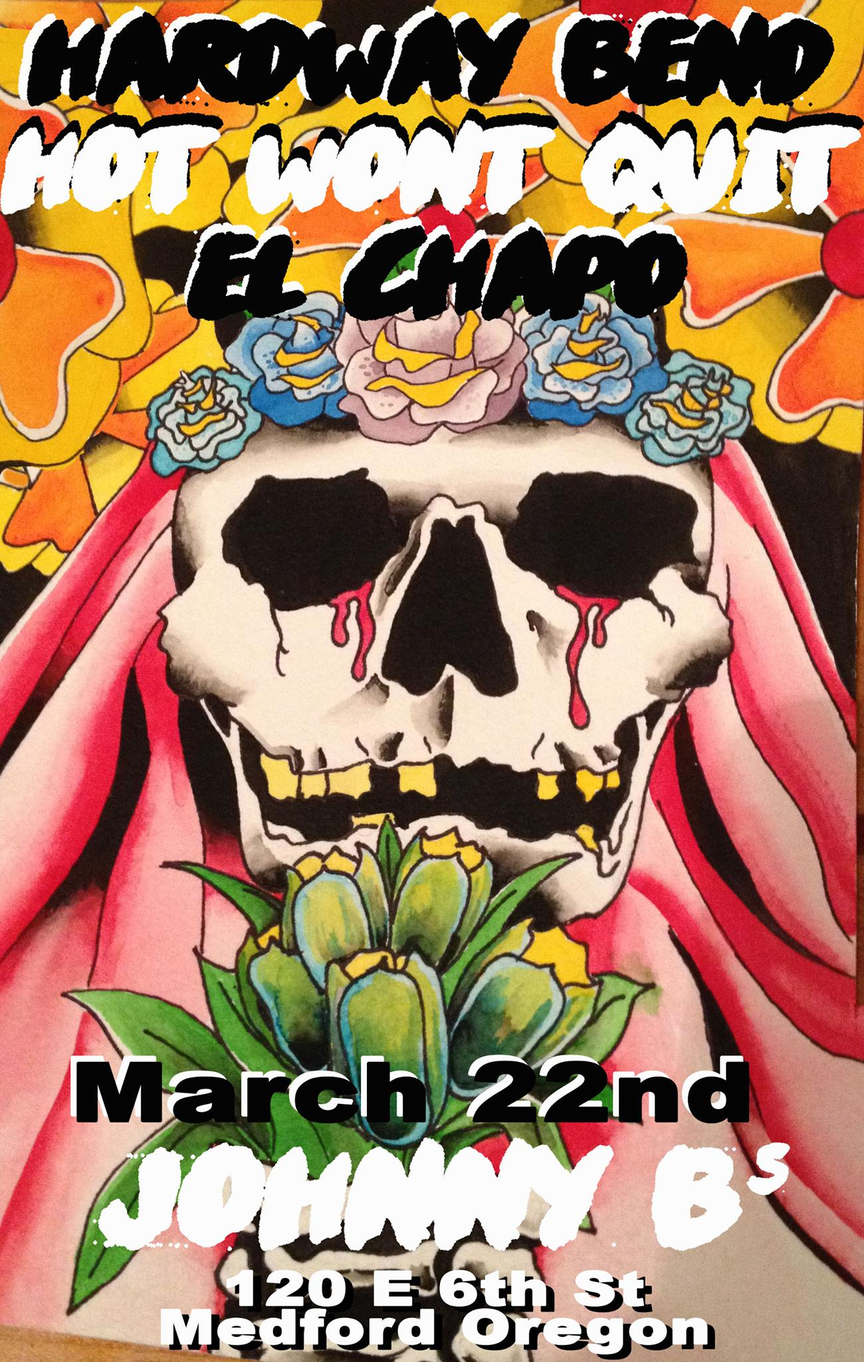
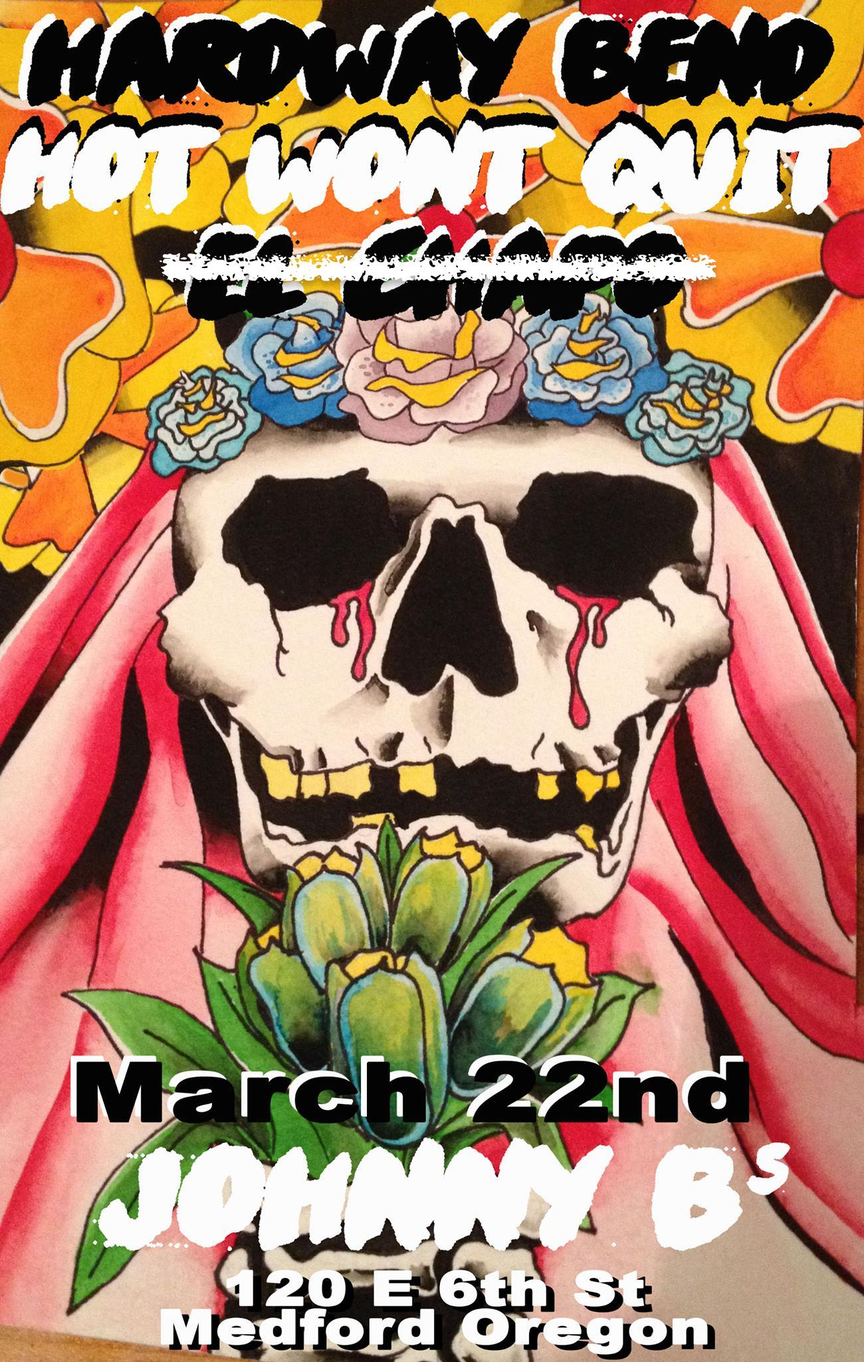
removes El Chapo from medford show

Changed region(s): [[0.1846, 0.1875, 0.8308, 0.2188]]

diff --git a/_shows/2017-03-22-medford-or.html b/_shows/2017-03-22-medford-or.html
@@ -15,6 +15,4 @@ details: This is the very FIRST show on our very FIRST tour and we can feel the 
 bands:
   - name: Hardway Bend
     link: https://www.facebook.com/HardwayBend/
-  - name: El Chapo
-    link: https://www.facebook.com/elchapotheband/
 ---
